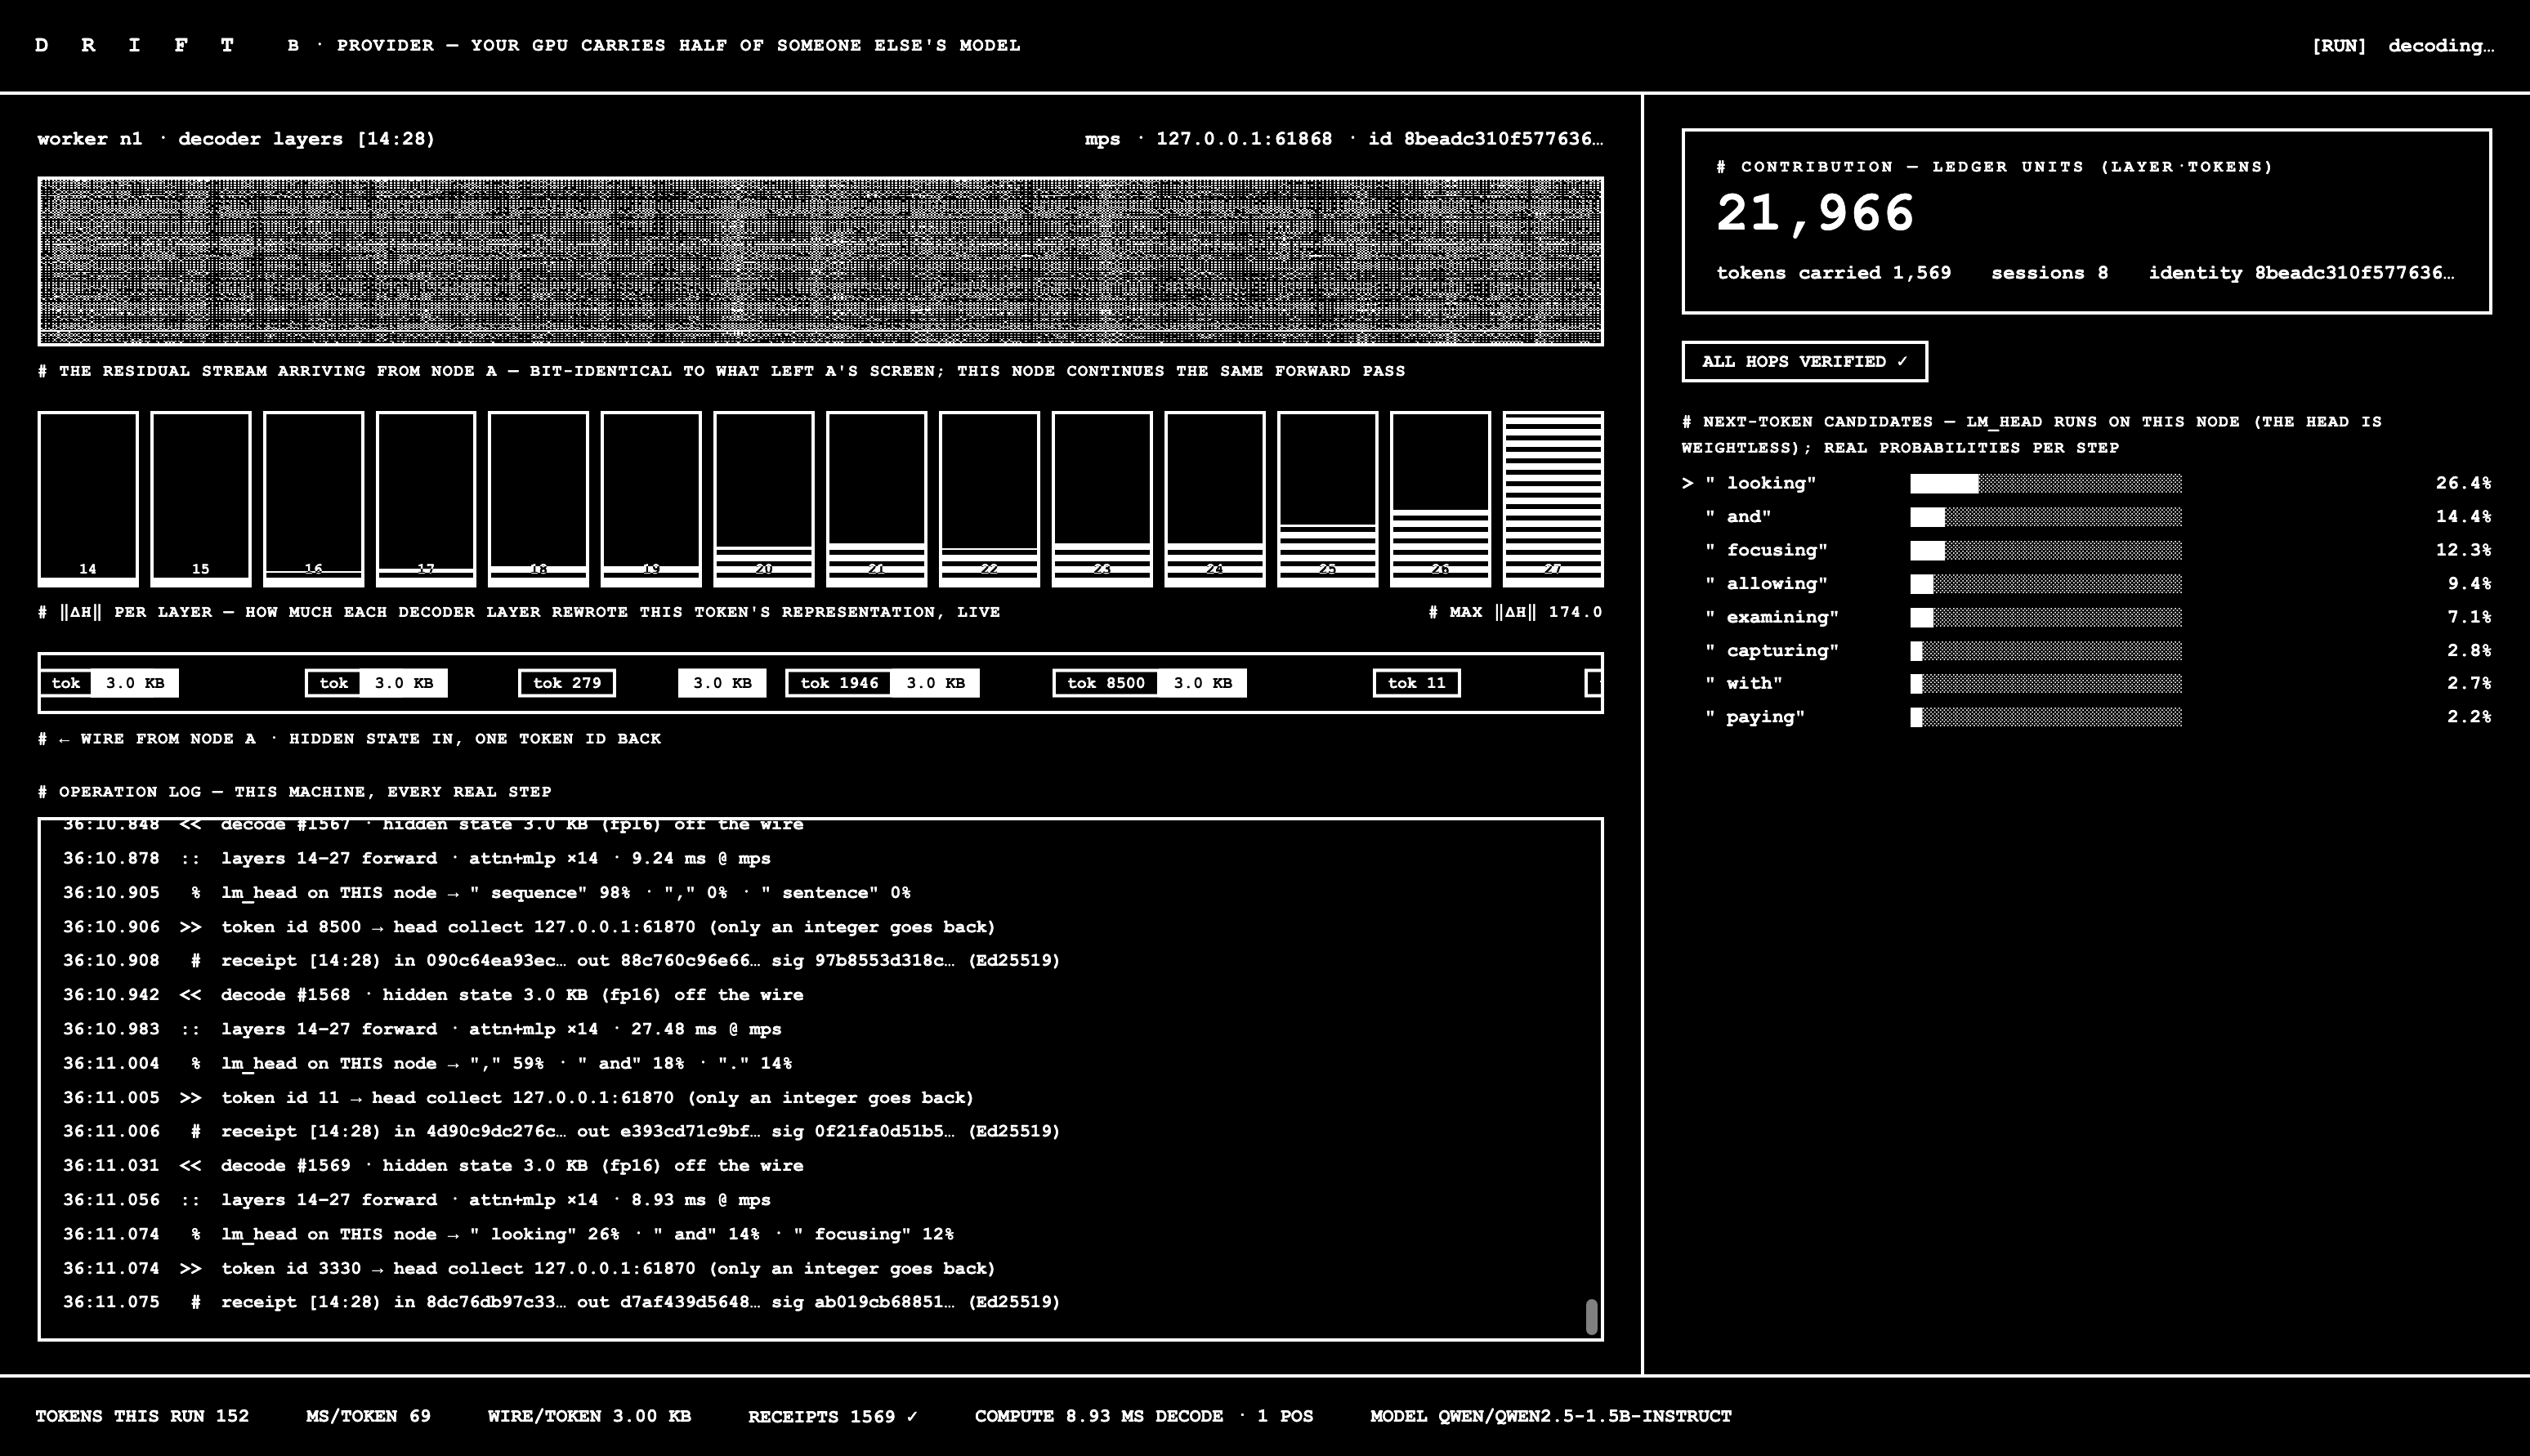
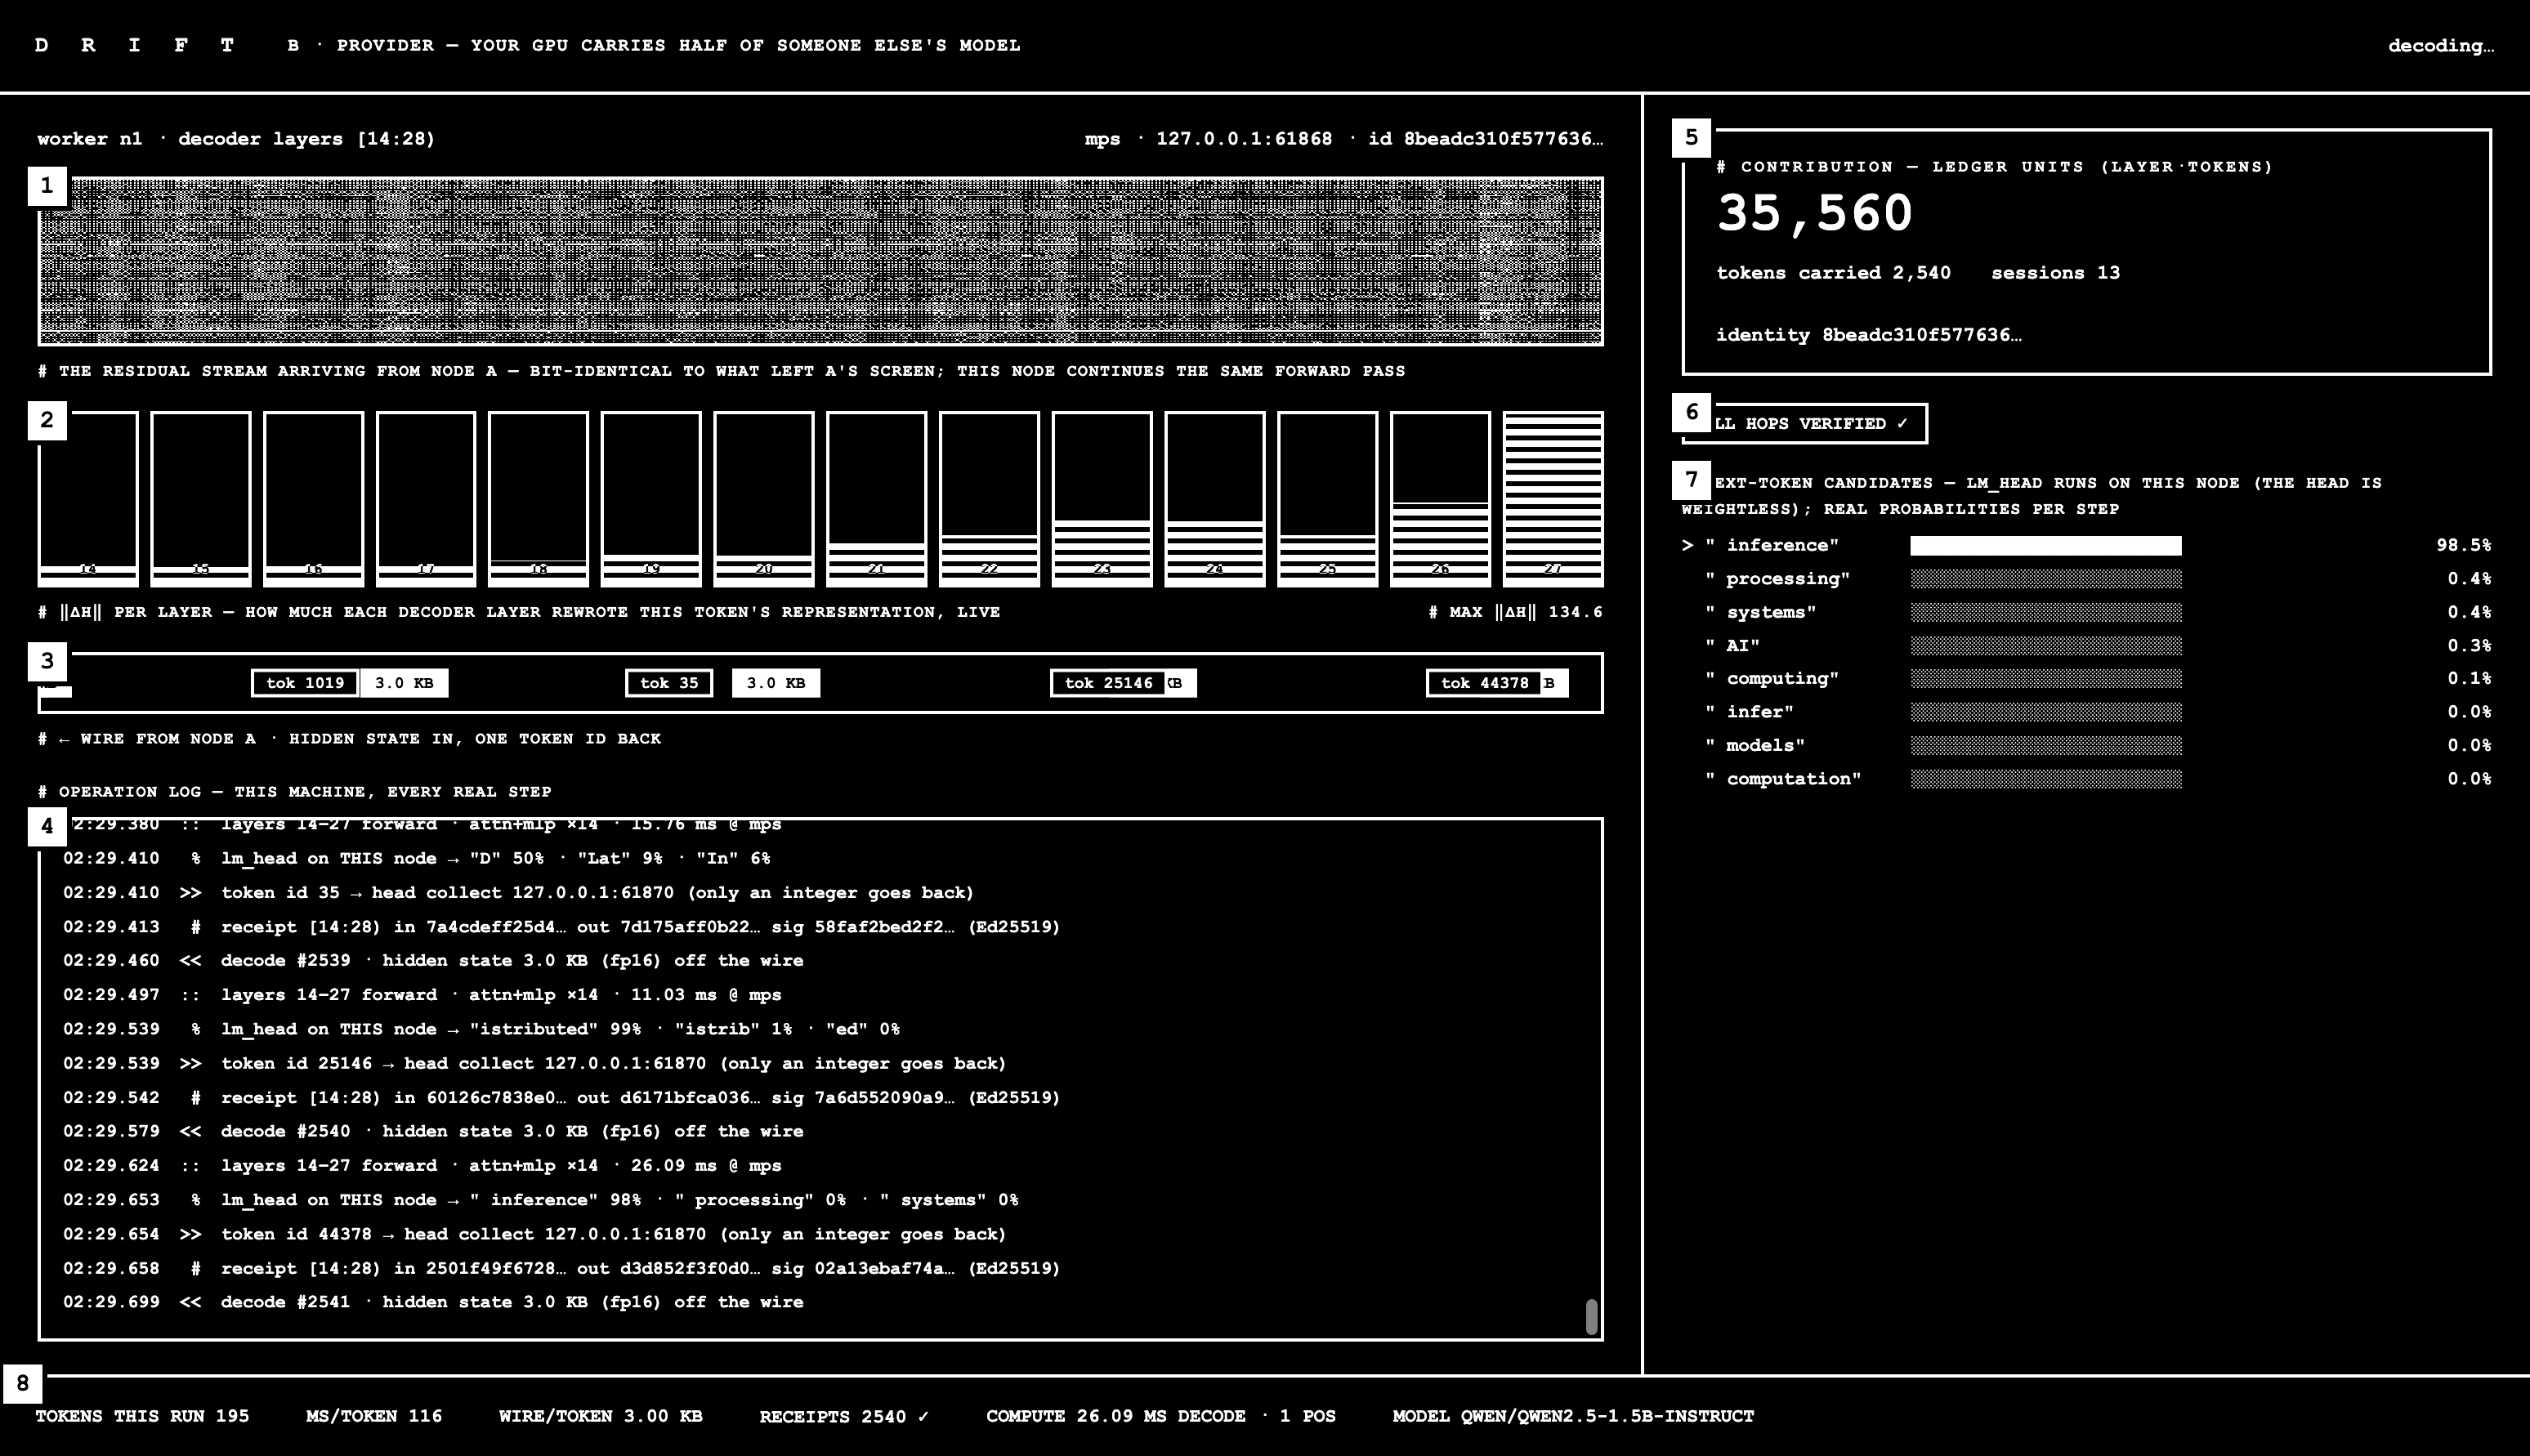
docs: annotated figures + per-panel legend; Korean README
Both view screenshots re-captured live with numbered badges overlaid on
the real panel positions; README gains a 'Reading the screens' section
explaining what each numbered part shows. Full Korean translation in
README.ko.md, language links on both.

diff --git a/README.ko.md b/README.ko.md
@@ -1,0 +1,103 @@
+# DRIFT-Demo
+
+[English](./README.md) · **한국어**
+
+**[DRIFT](https://github.com/TaewoooPark/DRIFT) P2P 추론 한 번을 두 화면으로 보여주는 비주얼 데모 — "For Tokens" 경제의 양면을 동시에.**
+
+하나의 모델이 두 DRIFT 워커에 레이어 단위로 쪼개져(peer-to-peer chain + weightless head) 돌아가고, 거래의 양쪽이 각자 풀스크린 화면을 가집니다. 모든 패널은 추상화가 아니라 네트워크의 **실제 내부**를 보여줍니다:
+
+| 화면 | 누구 | 무엇이 보이나 |
+|---|---|---|
+| **A · consumer** (`/a`) | 질문하는 쪽 | 채팅창; **레이어별 ‖Δh‖** — 자기 몫의 디코더 레이어(`[0:14)`)가 이 토큰의 표현을 실제로 얼마나 고쳐 썼는지; 와이어를 건너 떠나는 **residual stream 그 자체**(토큰당 1536개 fp16 값을 스크롤 히트맵으로); 네트워크가 저울질한 **다음 토큰 후보** 티커; 실제 스텝이 한 줄씩 흐르는 터미널식 **연산 로그** |
+| **B · provider** (`/b`) | 기여하는 쪽 | 자기 절반(`[14:28)`)의 동일한 라이브 내부 — **도착하는** residual stream(A 화면을 떠난 것과 비트 동일), 레이어 기록 바, **이 노드가 직접 계산하는 top-k lm_head 확률**(헤드는 무게 0), 로그에 찍히는 홉마다의 **Ed25519 서명 영수증**, 그리고 올라가는 기여 정산(**layer·tokens**) |
+
+노트북 두 대를 나란히 두면(A 왼쪽, B 오른쪽) consumer의 패킷은 오른쪽 모서리로 빠져나가고 provider의 패킷은 왼쪽에서 들어옵니다 — 그리고 두 히트맵이 **같은 세로줄**을 그립니다. 같은 바이트이기 때문입니다: 두 머신이 하나의 forward pass를 굴리고 있다는 시각적 증명.
+
+**모든 픽셀은 실물입니다.** 이 데모는 DRIFT 소스를 한 줄도 수정하지 않고, 어떤 데이터도 시뮬레이션하지 않습니다: 순정 DRIFT 워커를 프로세스 시작 시 몽키패칭(`TorchShardEngine.load/forward/head_argmax`, `Node.handle`, `Node._relay`)과 디코더 레이어별 read-only PyTorch forward hook으로만 계측하고, 전부 아웃오브밴드 fire-and-forget UDP 이벤트로 내보냅니다. 수학은 그대로입니다 — 반환되는 토큰은 항상 순정 코드의 결과이고(표시용 추출 오버헤드 실측 ≈ 토큰당 15–20 ms), 화면의 영수증 해시는 헤드가 실제로 검증하는 그 영수증이며, 실행은 저널로 남아 `drift ledger`로 데모 자체를 감사할 수 있습니다. 라이브 검증: A의 나가는 히트맵 열과 B의 들어오는 열이 **30/30 스텝 완전 일치** — DRIFT의 패리티 게이트가 증명하는 그대로, fp16 와이어 왕복은 무손실입니다.
+
+## 화면 읽는 법
+
+아래 두 그림은 라이브 로컬 실행 중에 캡처한 것이며, 번호는 이미지 속 배지와 일치합니다.
+
+### A · consumer — `/a`
+
+![view A, annotated](docs/view-a.png)
+
+1. **트랜스크립트** — 대화 내용. 실제 `drift run` REPL과 같은 문법(`you ›` / `drift ›`)이며, 체인 왕복이 한 번 끝날 때마다 토큰이 하나씩 도착합니다.
+2. **후보 티커** — 최신 스텝에서 네트워크가 저울질한 다음 토큰 후보들과 실제 확률(tail 노드 자신의 `lm_head` softmax).
+3. **프롬프트** — 여기 입력하면 `POST /api/generate`로 실제 오케스트레이터가 구동됩니다.
+4. **레이어별 ‖Δh‖** — 이 머신이 든 디코더 레이어 `[0:14)`. 바 높이 = 그 레이어가 방금 이 토큰의 히든 표현을 얼마나 고쳐 썼는지 (read-only forward hook 실측; 세그먼트 미터가 토큰마다 스냅).
+5. **떠나는 residual stream** — 와이어를 실제로 건너는 히든 스테이트: 마지막 위치의 1536개 fp16 값을 평균-|활성값| 128버킷으로 줄여 토큰당 세로줄 하나로, 1-bit 렌더링(Bayer 오더드 디더링 — 흰 픽셀의 밀도가 곧 크기). 노드 B는 정확히 이 바이트를 받습니다.
+6. **와이어** — 채워진 패킷은 노드 B로 떠나는 ~3.0 KB의 히든 스테이트, 테두리만 있는 패킷은 집으로 돌아오는 토큰 id 하나. 이 비대칭이 곧 weightless-head 설계입니다: 텐서는 노드 사이를 흐르고, 헤드에는 정수만 닿습니다.
+7. **연산 로그** — 이 머신의 실제 스텝이 한 줄씩: `<<` 수신(와이어에서 내려온 바이트), `::` 연산(레이어 범위 + ms), `>>` 송신, `OK` 헤드가 Ed25519 영수증 체인 전체를 라이브로 검증한 기록(해시 프리픽스 표시).
+8. **세션 통계** — tok/s, ms/token, 토큰당 와이어 바이트, 지금까지 검증된 영수증 수, 모델.
+
+### B · provider — `/b`
+
+![view B, annotated](docs/view-b.png)
+
+1. **도착하는 residual stream** — A의 나가는 패널과 같은 세로줄. 같은 바이트이기 때문입니다(테스트에서 30/30 스텝 동일 확인): 화면은 둘, forward pass는 하나.
+2. **레이어별 ‖Δh‖** — 이 머신의 절반, 레이어 `[14:28)`. 의미는 A의 미터와 동일.
+3. **와이어** — 노드 A에서 히든 스테이트가 들어오고, 토큰 id 하나가 헤드 쪽으로 나갑니다.
+4. **연산 로그** — 이 머신의 스텝들. `#` 서명 줄이 포함됩니다: 이 노드가 자기가 계산한 모든 홉에 대해 서명하는 Ed25519 영수증(`in`/`out` 해시 + 서명 프리픽스 — 렛저가 정산하는 바로 그 영수증).
+5. **기여(Contribution)** — 렛저 정산: **layer·tokens**(든 레이어 수 × 나른 토큰 수, M13의 정산 단위), 나른 토큰 수, 서빙한 세션 수, 이 노드의 신원 키.
+6. **검증 상태** — 헤드의 토큰별 검사가 통과하는 동안 `ALL HOPS VERIFIED` 유지; 서명/해시 인접성/앵커 검사 하나라도 깨지는 순간 반전 깜빡임 `SUSPECT …`로 뒤집힙니다.
+7. **다음 토큰 후보** — **이 노드가 돌리는** `lm_head`에서 나온 실제 확률(헤드는 가중치 0): `>`가 실제 선택된 토큰, `█░` 미터가 softmax.
+8. **세션 통계** — 이번 실행 토큰 수, ms/token, 토큰당 와이어, 영수증, 모델.
+
+## 실행
+
+Python **3.12**와 [`uv`](https://github.com/astral-sh/uv)가 필요합니다.
+
+```bash
+bash scripts/setup.sh          # DRIFT를 vendor/에 클론, .venv 구성
+.venv/bin/python -m demo       # 로컬 워커 2개 스폰, /a /b 자동 오픈
+```
+
+그다음 A 화면에 프롬프트를 입력하세요. 첫 기동은 모델 샤드를 로드하는 데 ~10–60초 걸리며, 네트워크가 조립되면 오버레이가 걷힙니다.
+
+```
+http://127.0.0.1:8800/a   consumer
+http://127.0.0.1:8800/b   provider
+```
+
+옵션:
+
+```
+python -m demo --nodes 3            # 워커 추가 (N번째 화면: /b?node=2)
+python -m demo --model <hf-id>      # DRIFT가 도는 모델 아무거나 (기본 Qwen2.5-1.5B-Instruct)
+python -m demo --max-new-tokens 400
+python -m demo --no-browser --port 8800
+```
+
+## 실행 감사하기
+
+헤드는 검증된 모든 영수증을 `.state/journal-<ts>.jsonl`에 저널링합니다:
+
+```bash
+.venv/bin/drift ledger .state/journal-*.jsonl --verify
+```
+
+로컬 워커 두 개는 **서로 다른** Ed25519 신원(`.state/node{0,1}.identity`)으로 서명하므로, 한 머신에서도 정산표에 기여자 두 명이 나옵니다.
+
+## 구조
+
+```
+demo/node_main.py     순정 `drift node` + 계측 (mDNS/gossip 없음 — 로컬 데모)
+demo/instrument.py    몽키패치 모음: 레이어별 ‖Δh‖ 훅, residual stream 다운샘플,
+                      tail 자신의 lm_head에서 top-k, 스텝 도착, 연산 타이밍, p2p 릴레이
+demo/head.py          weightless(thin) 헤드 + 스텝 단위 디코드 루프, 토큰마다 이벤트
+demo/events.py        fire-and-forget UDP JSON 방출기 (아웃오브밴드, 논블로킹)
+demo/server.py        stdlib HTTP: /a /b, SSE /events, POST /api/generate, /api/state
+demo/__main__.py      런처: 워커 스폰 → chain+thin 헤드 조립 → 서빙
+demo/static/          두 화면 (순수 HTML/CSS/JS, 빌드 스텝 없음)
+```
+
+생성 토큰 하나당 토폴로지 (chain + thin head, M7/M10):
+
+```
+head ──ids──▶ n0 [0:14) ──hidden 3.1 KB──▶ n1 [14:28) ──token──▶ head
+              └─ 영수증 서명                └─ 영수증 서명         └─ 둘 다 라이브 검증
+```
+
+DRIFT 자체는 `vendor/DRIFT`에 읽기 전용으로 벤더링됩니다(gitignore 대상; `scripts/setup.sh`가 고정).

diff --git a/README.md b/README.md
@@ -1,5 +1,7 @@
 # DRIFT-Demo
 
+**English** · [한국어](./README.ko.md)
+
 **A two-screen visual demo of a [DRIFT](https://github.com/TaewoooPark/DRIFT) peer-to-peer inference run — the "For Tokens" economy, both faces at once.**
 
 One model is split layer-by-layer across two DRIFT workers (peer-to-peer chain, weightless head), and each side of the exchange gets its own full-screen view. Every panel shows the network's **actual internals**, not an abstraction:
@@ -13,13 +15,35 @@ Staged on two laptops side by side (A left, B right), the consumer's packets exi
 
 **Every pixel is real.** The demo never edits the DRIFT sources and never simulates data: a stock DRIFT worker is instrumented at process start by monkey-patching (`TorchShardEngine.load/forward/head_argmax`, `Node.handle`, `Node._relay`) plus read-only PyTorch forward hooks on each kept decoder layer, all emitting fire-and-forget UDP events *out of band*. The math is untouched — the returned token is always the stock code's result (measured overhead ≈ 15–20 ms/token of display-only extraction). Receipt hashes on screen are the actual receipts the head verifies; the run journals them, so a demo run itself audits with `drift ledger`. Verified live: A's outgoing heatmap columns equal B's incoming ones **30/30 steps** — the fp16 wire round-trip is lossless, exactly as DRIFT's parity gate proves.
 
-## What it looks like
+## Reading the screens
 
-| A · consumer | B · provider |
-|---|---|
-| ![view A](docs/view-a.png) | ![view B](docs/view-b.png) |
+Both figures below were captured on a live local run; the numbers match the badges in the images.
 
-*(captured mid-generation on a live local run — the heatmap is the actual residual stream, the green bars are per-layer ‖Δh‖, the candidate list is the tail's own lm_head softmax, and the op log is one line per real recv/compute/sign/send)*
+### A · consumer — `/a`
+
+![view A, annotated](docs/view-a.png)
+
+1. **Transcript** — the conversation, in the same grammar as the real `drift run` REPL (`you ›` / `drift ›`). The reply lands token-by-token, one line per completed round trip through the chain.
+2. **Candidates ticker** — for the latest step, the next-token candidates the network weighed, with their real probabilities (the tail node's own `lm_head` softmax).
+3. **Prompt** — type here; submitting drives the actual orchestrator via `POST /api/generate`.
+4. **‖Δh‖ per layer** — this machine's decoder layers `[0:14)`. Bar height = how much that layer just rewrote the current token's hidden representation (measured by read-only forward hooks; the segmented meters snap to each new token).
+5. **The residual stream, leaving** — the hidden state that actually crosses the wire: the last position's 1536 fp16 values, downsampled to 128 mean-|activation| buckets, one column per token, rendered 1-bit (Bayer ordered dithering — white-pixel density *is* the magnitude). Node B receives these exact bytes.
+6. **The wire** — a filled packet is ~3.0 KB of hidden state leaving for node B; an outlined packet is the single token id coming home. That asymmetry *is* the weightless-head design: tensors flow between nodes, only integers touch the head.
+7. **Operation log** — one line per real step on this machine: `<<` recv (bytes off the wire), `::` compute (layer range + ms), `>>` send, `OK` the head's live verification of the full Ed25519 receipt chain (hash prefixes shown).
+8. **Session stats** — tok/s, ms/token, wire bytes/token, receipts verified so far, model.
+
+### B · provider — `/b`
+
+![view B, annotated](docs/view-b.png)
+
+1. **The residual stream, arriving** — the same columns as A's outgoing panel, because they are the same bytes (verified 30/30 steps identical in testing): two screens, one forward pass.
+2. **‖Δh‖ per layer** — this machine's half, layers `[14:28)`; same live meaning as A's meter.
+3. **The wire** — hidden state in from node A; one token id back out toward the head.
+4. **Operation log** — this machine's steps, including the `#` sign lines: the Ed25519 receipt this node signs for every hop it computes (`in`/`out` hashes + signature prefix — the same receipts the ledger settles on).
+5. **Contribution** — the ledger tally: **layer·tokens** (layers held × tokens carried, M13's settlement unit), tokens carried, sessions served, and this node's identity key.
+6. **Verification status** — stays `ALL HOPS VERIFIED` while the head's per-token checks pass; flips to an inverse, blinking `SUSPECT …` the moment any signature / hash-adjacency / anchor check fails.
+7. **Next-token candidates** — real probabilities from the `lm_head` **this node runs** (the head holds zero weights): `>` marks the token actually chosen, the `█░` meters are the softmax.
+8. **Session stats** — tokens this run, ms/token, wire/token, receipts, model.
 
 ## Run it
 